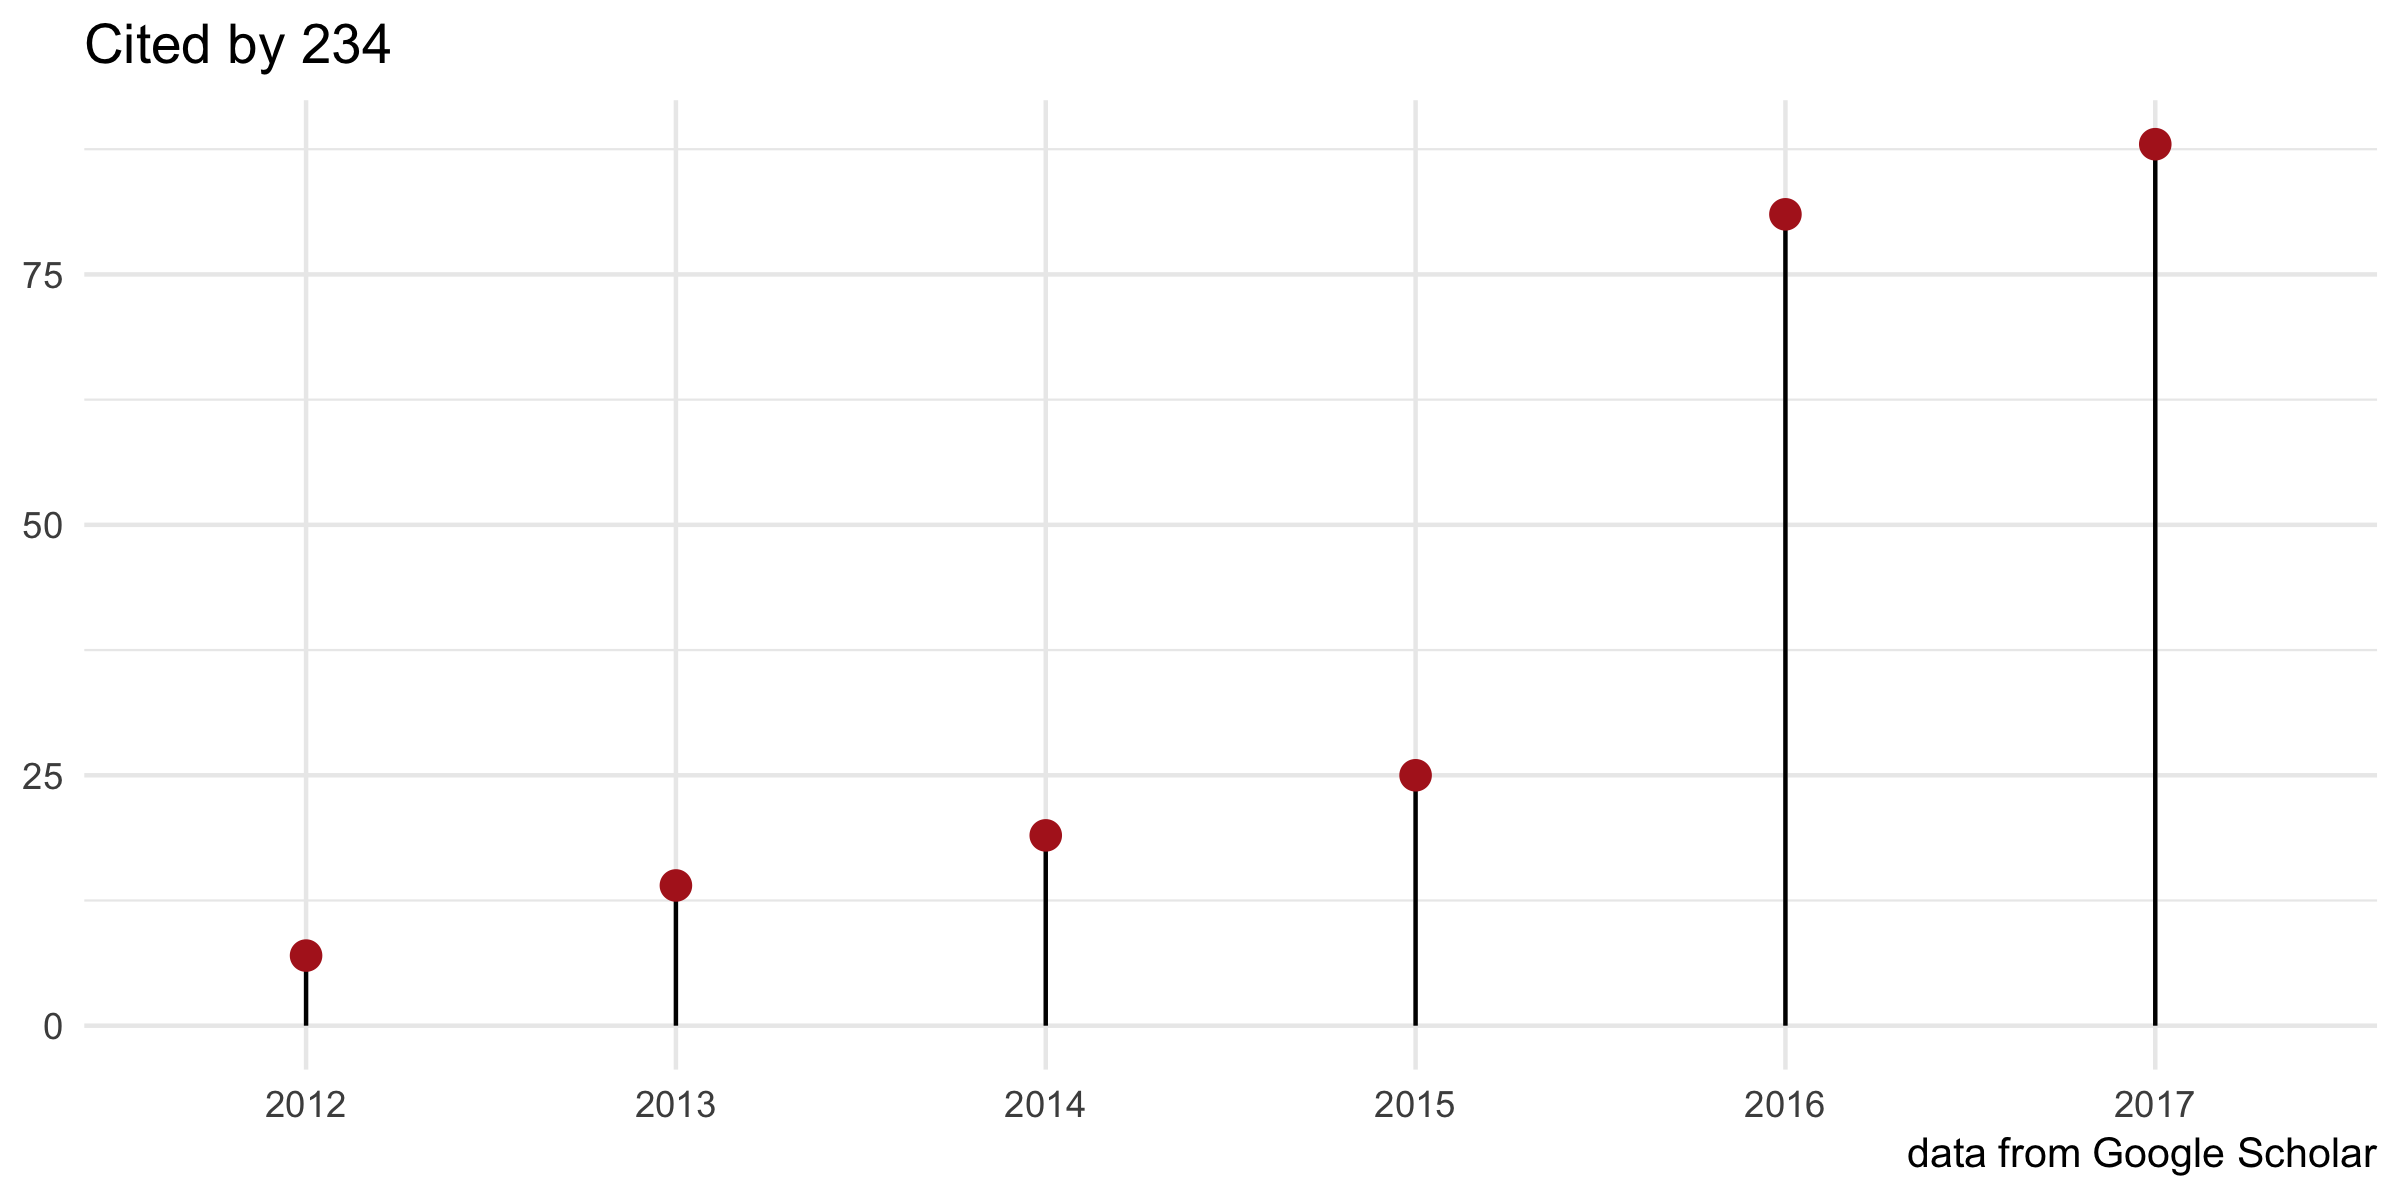
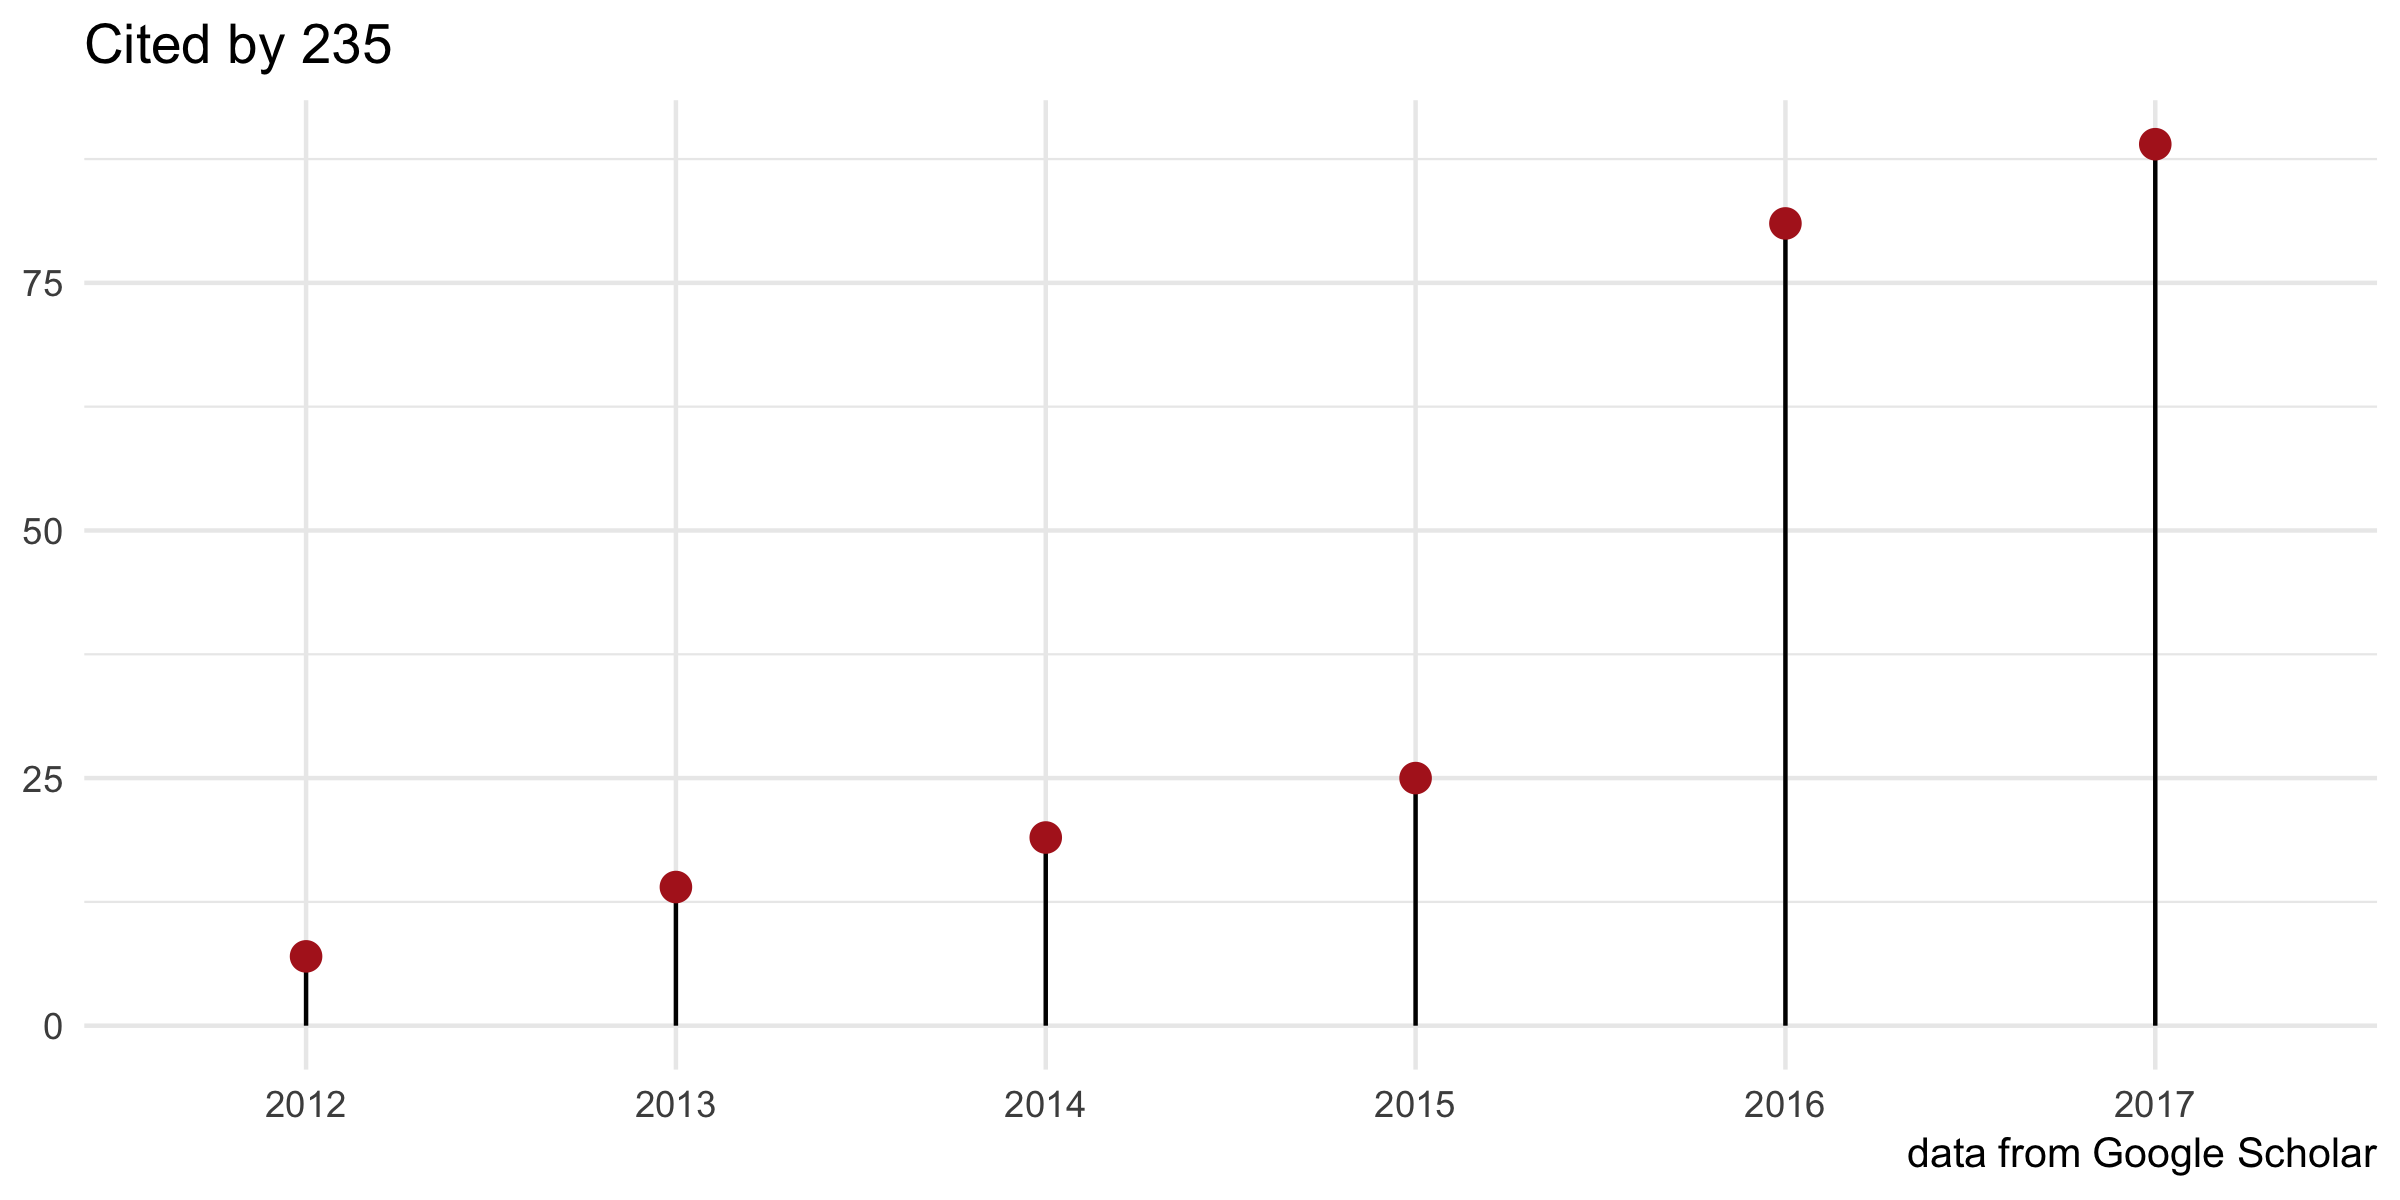
update

Changed region(s): [[0.0, 0.1542, 1.0, 0.2467], [0.0, 0.4317, 1.0, 0.4625], [0.0, 0.6167, 0.0312, 0.6783]]

diff --git a/site_src/content/index.html b/site_src/content/index.html
@@ -19,7 +19,7 @@ weight: 1
 <div id="citation" class="section level2">
 <h2><i class="fa fa-book"></i> Citation</h2>
 <p>Please cite the following article when using <code>clusterProfiler</code>:</p>
-<p><a href="http://dx.doi.org/10.1089/omi.2011.0118"><img src="https://img.shields.io/badge/doi-10.1089/omi.2011.0118-blue.svg?style=flat" /></a> <a href="https://www.altmetric.com/details/681089"><img src="https://img.shields.io/badge/Altmetric-23-blue.svg?style=flat" /></a> <a href="http://online.liebertpub.com/action/showMostCitedArticles?journalCode=omi"><img src="https://img.shields.io/badge/2nd%20most%20cited%20paper-in%20OMICS-blue.svg?style=flat" /></a> <a href="https://scholar.google.com.hk/scholar?oi=bibs&amp;hl=en&amp;cites=2349076811020942117"><img src="https://img.shields.io/badge/cited%20by-234-blue.svg?style=flat" alt="citation" /></a> <a href="http://apps.webofknowledge.com/InboundService.do?mode=FullRecord&amp;customersID=RID&amp;IsProductCode=Yes&amp;product=WOS&amp;Init=Yes&amp;Func=Frame&amp;DestFail=http%3A%2F%2Fwww.webofknowledge.com&amp;action=retrieve&amp;SrcApp=RID&amp;SrcAuth=RID&amp;SID=Y2CXu6nry8nDQZcUy1w&amp;UT=WOS%3A000303653300007"><img src="https://img.shields.io/badge/cited%20in%20Web%20of%20Science%20Core%20Collection--blue.svg?style=flat" /></a> <a href="http://apps.webofknowledge.com/InboundService.do?mode=FullRecord&amp;customersID=RID&amp;IsProductCode=Yes&amp;product=WOS&amp;Init=Yes&amp;Func=Frame&amp;DestFail=http%3A%2F%2Fwww.webofknowledge.com&amp;action=retrieve&amp;SrcApp=RID&amp;SrcAuth=RID&amp;SID=Y2CXu6nry8nDQZcUy1w&amp;UT=WOS%3A000303653300007"><img src="https://img.shields.io/badge/ESI-Highly%20Cited%20Paper-blue.svg?style=flat" /></a></p>
+<p><a href="http://dx.doi.org/10.1089/omi.2011.0118"><img src="https://img.shields.io/badge/doi-10.1089/omi.2011.0118-blue.svg?style=flat" /></a> <a href="https://www.altmetric.com/details/681089"><img src="https://img.shields.io/badge/Altmetric-23-blue.svg?style=flat" /></a> <a href="http://online.liebertpub.com/action/showMostCitedArticles?journalCode=omi"><img src="https://img.shields.io/badge/2nd%20most%20cited%20paper-in%20OMICS-blue.svg?style=flat" /></a> <a href="https://scholar.google.com.hk/scholar?oi=bibs&amp;hl=en&amp;cites=2349076811020942117"><img src="https://img.shields.io/badge/cited%20by-235-blue.svg?style=flat" alt="citation" /></a> <a href="http://apps.webofknowledge.com/InboundService.do?mode=FullRecord&amp;customersID=RID&amp;IsProductCode=Yes&amp;product=WOS&amp;Init=Yes&amp;Func=Frame&amp;DestFail=http%3A%2F%2Fwww.webofknowledge.com&amp;action=retrieve&amp;SrcApp=RID&amp;SrcAuth=RID&amp;SID=Y2CXu6nry8nDQZcUy1w&amp;UT=WOS%3A000303653300007"><img src="https://img.shields.io/badge/cited%20in%20Web%20of%20Science%20Core%20Collection--blue.svg?style=flat" /></a> <a href="http://apps.webofknowledge.com/InboundService.do?mode=FullRecord&amp;customersID=RID&amp;IsProductCode=Yes&amp;product=WOS&amp;Init=Yes&amp;Func=Frame&amp;DestFail=http%3A%2F%2Fwww.webofknowledge.com&amp;action=retrieve&amp;SrcApp=RID&amp;SrcAuth=RID&amp;SID=Y2CXu6nry8nDQZcUy1w&amp;UT=WOS%3A000303653300007"><img src="https://img.shields.io/badge/ESI-Highly%20Cited%20Paper-blue.svg?style=flat" /></a></p>
 <p><strong>Yu G</strong>, Wang L, Han Y and He Q<sup>*</sup>. clusterProfiler: an R package for comparing biological themes among gene clusters. <strong><em>OMICS: A Journal of Integrative Biology</em></strong>. 2012, 16(5):284-287.</p>
 </div>
 <div id="featured-articles" class="section level2">

diff --git a/docs/index.html b/docs/index.html
@@ -300,7 +300,7 @@
 <div id="citation" class="section level2">
 <h2><i class="fa fa-book"></i> Citation</h2>
 <p>Please cite the following article when using <code>clusterProfiler</code>:</p>
-<p><a href="http://dx.doi.org/10.1089/omi.2011.0118"><img src="https://img.shields.io/badge/doi-10.1089/omi.2011.0118-blue.svg?style=flat" /></a> <a href="https://www.altmetric.com/details/681089"><img src="https://img.shields.io/badge/Altmetric-23-blue.svg?style=flat" /></a> <a href="http://online.liebertpub.com/action/showMostCitedArticles?journalCode=omi"><img src="https://img.shields.io/badge/2nd%20most%20cited%20paper-in%20OMICS-blue.svg?style=flat" /></a> <a href="https://scholar.google.com.hk/scholar?oi=bibs&amp;hl=en&amp;cites=2349076811020942117"><img src="https://img.shields.io/badge/cited%20by-234-blue.svg?style=flat" alt="citation" /></a> <a href="http://apps.webofknowledge.com/InboundService.do?mode=FullRecord&amp;customersID=RID&amp;IsProductCode=Yes&amp;product=WOS&amp;Init=Yes&amp;Func=Frame&amp;DestFail=http%3A%2F%2Fwww.webofknowledge.com&amp;action=retrieve&amp;SrcApp=RID&amp;SrcAuth=RID&amp;SID=Y2CXu6nry8nDQZcUy1w&amp;UT=WOS%3A000303653300007"><img src="https://img.shields.io/badge/cited%20in%20Web%20of%20Science%20Core%20Collection--blue.svg?style=flat" /></a> <a href="http://apps.webofknowledge.com/InboundService.do?mode=FullRecord&amp;customersID=RID&amp;IsProductCode=Yes&amp;product=WOS&amp;Init=Yes&amp;Func=Frame&amp;DestFail=http%3A%2F%2Fwww.webofknowledge.com&amp;action=retrieve&amp;SrcApp=RID&amp;SrcAuth=RID&amp;SID=Y2CXu6nry8nDQZcUy1w&amp;UT=WOS%3A000303653300007"><img src="https://img.shields.io/badge/ESI-Highly%20Cited%20Paper-blue.svg?style=flat" /></a></p>
+<p><a href="http://dx.doi.org/10.1089/omi.2011.0118"><img src="https://img.shields.io/badge/doi-10.1089/omi.2011.0118-blue.svg?style=flat" /></a> <a href="https://www.altmetric.com/details/681089"><img src="https://img.shields.io/badge/Altmetric-23-blue.svg?style=flat" /></a> <a href="http://online.liebertpub.com/action/showMostCitedArticles?journalCode=omi"><img src="https://img.shields.io/badge/2nd%20most%20cited%20paper-in%20OMICS-blue.svg?style=flat" /></a> <a href="https://scholar.google.com.hk/scholar?oi=bibs&amp;hl=en&amp;cites=2349076811020942117"><img src="https://img.shields.io/badge/cited%20by-235-blue.svg?style=flat" alt="citation" /></a> <a href="http://apps.webofknowledge.com/InboundService.do?mode=FullRecord&amp;customersID=RID&amp;IsProductCode=Yes&amp;product=WOS&amp;Init=Yes&amp;Func=Frame&amp;DestFail=http%3A%2F%2Fwww.webofknowledge.com&amp;action=retrieve&amp;SrcApp=RID&amp;SrcAuth=RID&amp;SID=Y2CXu6nry8nDQZcUy1w&amp;UT=WOS%3A000303653300007"><img src="https://img.shields.io/badge/cited%20in%20Web%20of%20Science%20Core%20Collection--blue.svg?style=flat" /></a> <a href="http://apps.webofknowledge.com/InboundService.do?mode=FullRecord&amp;customersID=RID&amp;IsProductCode=Yes&amp;product=WOS&amp;Init=Yes&amp;Func=Frame&amp;DestFail=http%3A%2F%2Fwww.webofknowledge.com&amp;action=retrieve&amp;SrcApp=RID&amp;SrcAuth=RID&amp;SID=Y2CXu6nry8nDQZcUy1w&amp;UT=WOS%3A000303653300007"><img src="https://img.shields.io/badge/ESI-Highly%20Cited%20Paper-blue.svg?style=flat" /></a></p>
 <p><strong>Yu G</strong>, Wang L, Han Y and He Q<sup>*</sup>. clusterProfiler: an R package for comparing biological themes among gene clusters. <strong><em>OMICS: A Journal of Integrative Biology</em></strong>. 2012, 16(5):284-287.</p>
 </div>
 <div id="featured-articles" class="section level2">

diff --git a/README.md b/README.md
@@ -1,6 +1,8 @@
 clusterProfiler
 ===============
 
+<img src="https://raw.githubusercontent.com/Bioconductor/BiocStickers/master/clusterProfiler/clusterProfiler.png" height="200" align="right" />
+
 [![](https://img.shields.io/badge/release%20version-3.4.4-green.svg?style=flat)](https://bioconductor.org/packages/clusterProfiler) [![](https://img.shields.io/badge/devel%20version-3.5.5-green.svg?style=flat)](https://github.com/guangchuangyu/clusterProfiler) [![Bioc](http://www.bioconductor.org/shields/years-in-bioc/clusterProfiler.svg)](https://www.bioconductor.org/packages/devel/bioc/html/clusterProfiler.html#since) [![](https://img.shields.io/badge/download-44547/total-blue.svg?style=flat)](https://bioconductor.org/packages/stats/bioc/clusterProfiler) [![](https://img.shields.io/badge/download-2330/month-blue.svg?style=flat)](https://bioconductor.org/packages/stats/bioc/clusterProfiler)
 
 [![Project Status: Active - The project has reached a stable, usable state and is being actively developed.](http://www.repostatus.org/badges/latest/active.svg)](http://www.repostatus.org/#active) [![codecov](https://codecov.io/gh/GuangchuangYu/clusterProfiler/branch/master/graph/badge.svg)](https://codecov.io/gh/GuangchuangYu/clusterProfiler/) [![Last-changedate](https://img.shields.io/badge/last%20change-2017--07--25-green.svg)](https://github.com/GuangchuangYu/clusterProfiler/commits/master) [![commit](http://www.bioconductor.org/shields/commits/bioc/clusterProfiler.svg)](https://www.bioconductor.org/packages/devel/bioc/html/clusterProfiler.html#svn_source) [![GitHub forks](https://img.shields.io/github/forks/GuangchuangYu/clusterProfiler.svg)](https://github.com/GuangchuangYu/clusterProfiler/network) [![GitHub stars](https://img.shields.io/github/stars/GuangchuangYu/clusterProfiler.svg)](https://github.com/GuangchuangYu/clusterProfiler/stargazers)
@@ -29,7 +31,7 @@ Please cite the following article when using `clusterProfiler`:
 
 ### Citation
 
-[![](https://img.shields.io/badge/2nd%20most%20cited%20paper-in%20OMICS-green.svg?style=flat)](http://online.liebertpub.com/action/showMostCitedArticles?journalCode=omi) [![citation](https://img.shields.io/badge/cited%20by-234-green.svg?style=flat)](https://scholar.google.com.hk/scholar?oi=bibs&hl=en&cites=2349076811020942117) ![](https://img.shields.io/badge/ESI-Highly%20Cited%20Paper-green.svg?style=flat)
+[![](https://img.shields.io/badge/2nd%20most%20cited%20paper-in%20OMICS-green.svg?style=flat)](http://online.liebertpub.com/action/showMostCitedArticles?journalCode=omi) [![citation](https://img.shields.io/badge/cited%20by-235-green.svg?style=flat)](https://scholar.google.com.hk/scholar?oi=bibs&hl=en&cites=2349076811020942117) ![](https://img.shields.io/badge/ESI-Highly%20Cited%20Paper-green.svg?style=flat)
 
 <img src="docs/images/citation.png" width="890"/>
 
